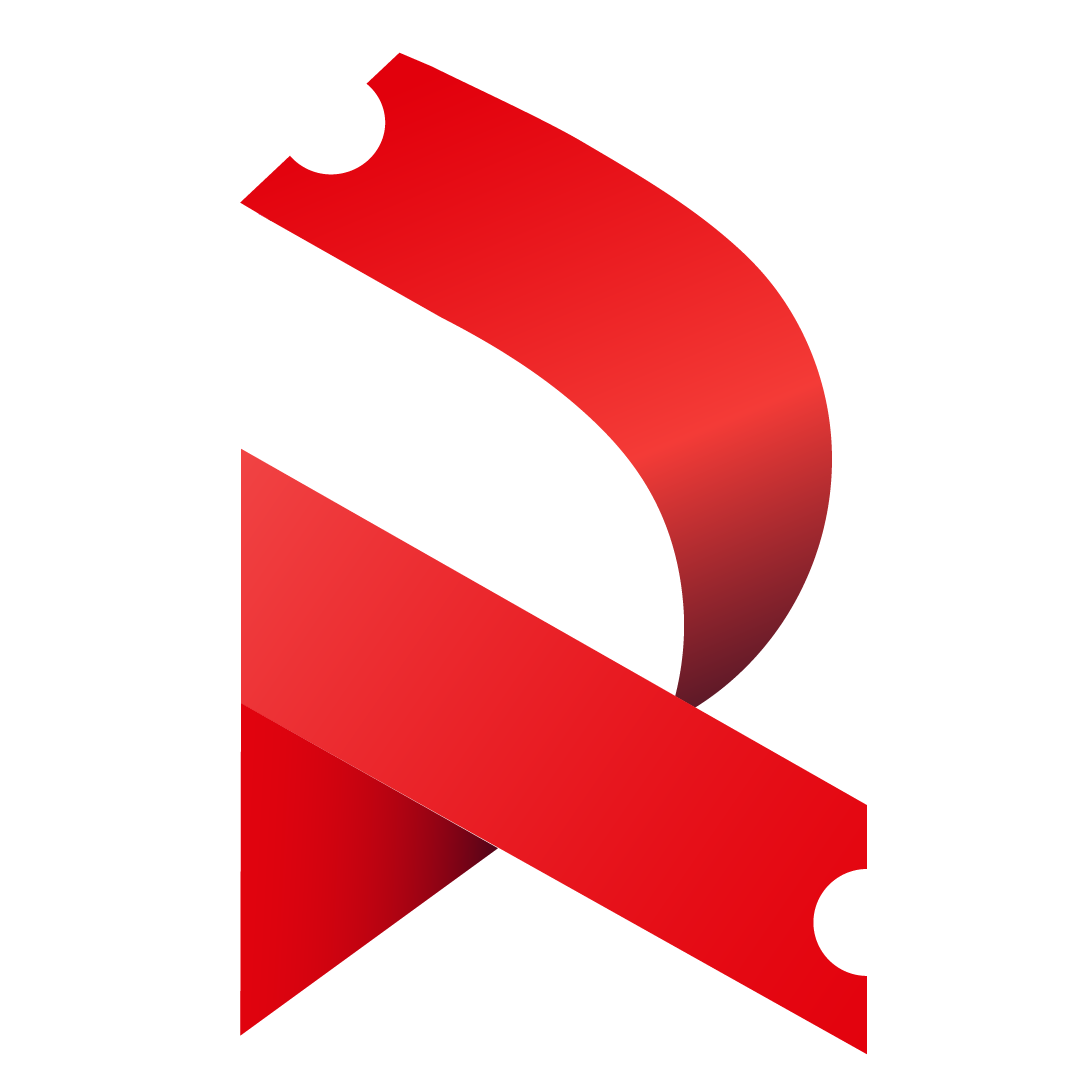
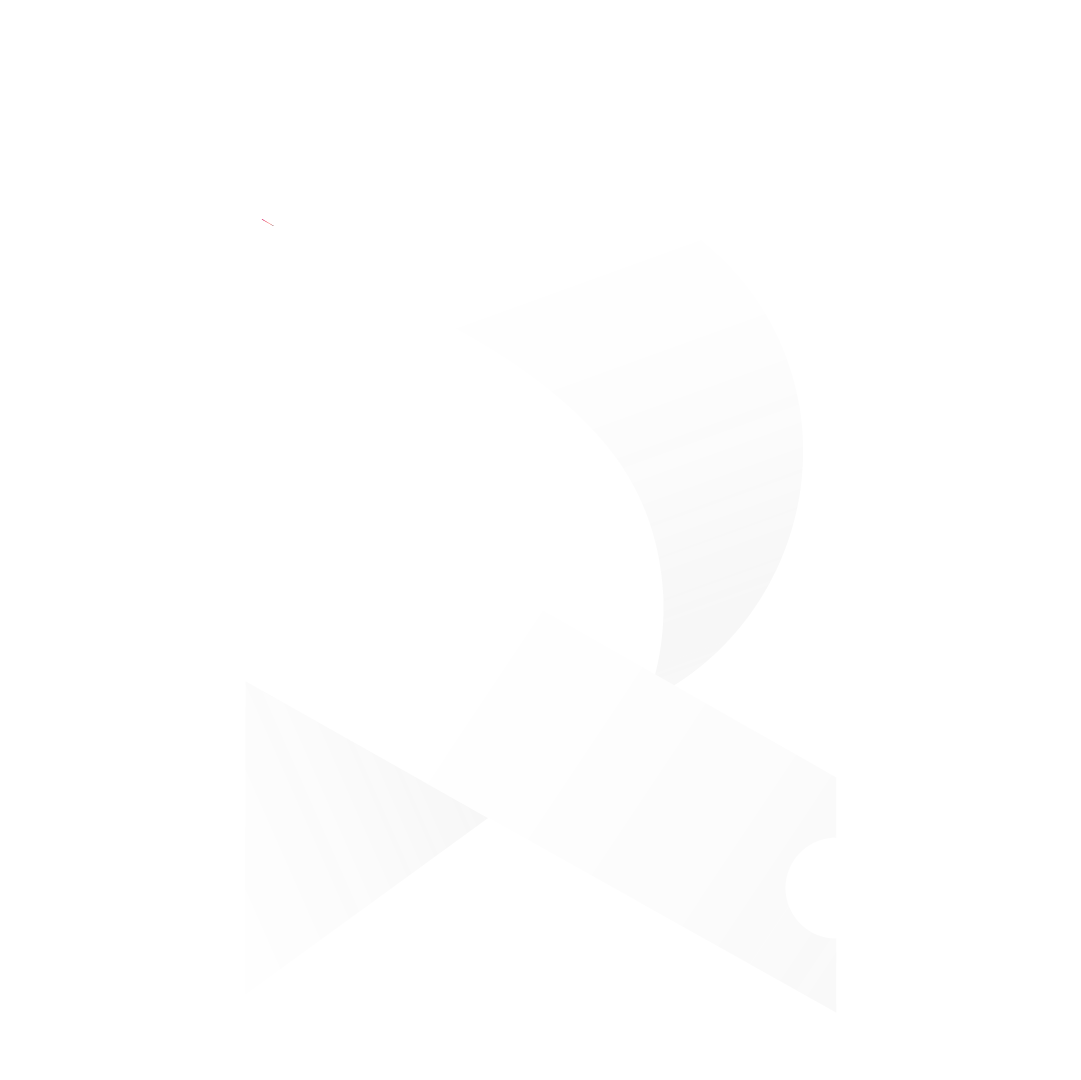
feat(merchant): voucher card §29 — Iconic v3 asset + clean right column
Replaces the §28 watermark source (Iconic Version 1) with the
brand-prepared Iconic Version 3 (white-on-dark variant) and
cleans up the right-side composition. Source SVG also copied
into docs/branding/Logos/ (gitignored — kept locally for
traceability of the chosen brand variant).

  1. Brand R uses Iconic Version 3 — and renders WITHOUT
     tintColor.

     Previous rounds bundled Iconic Version 1 (the colour
     red-gradient variant) and tinted it white. tintColor
     replaces every non-transparent pixel with one colour, so
     the brand designer's tonal gradient inside the ribbon
     was flattened — the §28 watermark looked like a single
     flat silhouette.

     Iconic Version 3 IS the white-on-dark brand variant. The
     ribbon-on-loop tonal depth is already painted in by the
     brand designer. Rendering the asset as plain <Image> at
     0.30 opacity (no tintColor) preserves that depth — the
     internal structure of the R is visible because it's in
     the asset, not because we faked it.

     Asset now bundled at apps/customer-app/assets/redeemo-r-
     mark.png (49KB, 1081×1080, RGBA). Replaces the previous
     v1 PNG.

  2. Right-side composition cleaned up.

     §28 right column had FIVE elements stacked: heart +
     decorative blob + R watermark + side notch + Redeem CTA.
     The on-device QA flagged the blob ↔ R collision as
     accidental-looking. The right column now has only three
     intentional zones:

       - heart top-right (16pt)
[…]

Changed region(s): [[0.2137, 0.0306, 0.8242, 0.9778]]

diff --git a/apps/customer-app/src/features/merchant/components/VoucherCard.tsx b/apps/customer-app/src/features/merchant/components/VoucherCard.tsx
@@ -15,51 +15,50 @@ import { useMotionScale } from '@/design-system/useMotionScale'
 import type { VoucherType } from '@/lib/api/redemption'
 import type { MerchantVoucher } from '@/lib/api/merchant'
 
-// Round 5 §28: corrects the §27 mistake of trying to manually
-// reconstruct the brand R as SVG paths — the result looked
-// disfigured and didn't read as the Redeemo logo. Reverted to
-// the official PNG asset (apps/customer-app/assets/redeemo-r-
-// mark.png, copied from the brand pack's "Iconic Version 1.png"
-// at 1081×1080), tinted white at low opacity for a single
-// faint flat watermark. No more fake internal structure.
+// Round 5 §29: official "Iconic Version 3" brand asset + clean
+// right-side composition. The asset bundled at
+// apps/customer-app/assets/redeemo-r-mark.png is now the
+// brand pack's white-on-dark variant (Iconic Version 3),
+// copied from docs/branding/Redeemo Branding Package/Logo
+// Files/PNG/Iconic Version 3.png. Source SVG also published
+// alongside for traceability:
+// docs/branding/Logos/Iconic Version 3.svg.
 //
-// Other refinements against the on-device QA:
+//   1. Brand R rendered WITHOUT tintColor. The Version 3 PNG
+//      is brand-prepared white/light-grey with the ribbon's
+//      tonal gradient baked in by the brand designer.
+//      Applying tintColor would flatten that gradient. Just
+//      <Image> + opacity 0.30 → the internal ribbon-on-loop
+//      depth comes through naturally because it's already in
+//      the asset.
 //
-//   1. Brand R uses the OFFICIAL asset. tintColor white +
-//      opacity 0.10 → recognisable Redeemo R silhouette,
-//      faint, embedded as background motif. No more manual
-//      reconstruction.
+//   2. Right-side composition cleaned up. §28 had FIVE things
+//      stacked on the right: heart + decorative blob + R +
+//      side notch + Redeem CTA. The on-device QA flagged the
+//      blob ↔ R collision as accidental-looking. Both
+//      decorative blobs moved to the LEFT side now so the
+//      right column has only three intentional zones:
+//        a) heart top-right (16pt)
+//        b) brand R right-CENTER (110×110, fully visible)
+//        c) Redeem CTA bottom-right
+//      Side notches stay (mid-height, coupon silhouette).
 //
-//   2. CTA returned to bottom-RIGHT (was bottom-left in §26).
-//      The bottom-right is the natural action position for
-//      "tap to redeem". The R is sized + placed so the
-//      bottom-right is empty when the CTA arrives — they
-//      don't overlap.
+//   3. Decorative blobs repositioned. §28 placed shapeA at
+//      top-RIGHT — directly clashing with the R area. Now:
+//        shapeA: top-LEFT corner, bleeds off (120pt @ 0.06)
+//        shapeB: bottom-LEFT corner, bleeds off (160pt @ 0.05)
+//      Both on the left so they support the hero/title column
+//      and never compete with the R or CTA on the right.
 //
-//   3. Layout — three vertical zones on the right column:
-//        a) heart at top-right (16pt)
-//        b) brand R at right-CENTER (100×100, fully visible)
-//        c) Redeem CTA at bottom-right
-//      Each zone has clean space; nothing covers the R.
-//
-//   4. Description font 11pt → 12pt, lineHeight 15 → 16.
-//      Body text on mobile should be ≥12pt; the on-device QA
-//      flagged the description as too small for normal users
-//      to read at a glance. Card grows ~3pt vertically — fine
-//      because readability wins over compactness.
+//   4. Description font 11pt → 12pt, lineHeight 15 → 16
+//      (kept from §28). Body text ≥12pt on mobile.
 //
 //   5. Hero stays stacked ("Save up to" eyebrow above £hero)
 //      from §27.
 //
-//   6. Type chip stays §26's dark-translucent style — strong
-//      contrast on every gradient (especially FREEBIE),
-//      clearly different surface from the white CTA pill.
+//   6. Type chip stays §26's dark-translucent style.
 //
-//   7. Background shape character — kept the §27 subtle white
-//      blobs (top-right + bottom-left, both at 0.05 opacity)
-//      so the card doesn't read as a flat block of colour.
-//
-// Behaviour preserved across §22 → §28:
+// Behaviour preserved across §22 → §29:
 //   • side cutouts at mid-height (coupon silhouette)
 //   • per-type 3-stop gradient with brand-red drop shadow
 //   • horizontal text only
@@ -204,12 +203,17 @@ export function VoucherCard({ voucher, isRedeemed, isFavourited, onPress, onTogg
         <View style={styles.shapeA} pointerEvents="none" />
         <View style={styles.shapeB} pointerEvents="none" />
 
-        {/* §28 brand R watermark — OFFICIAL PNG asset, tinted
-            white at 0.10 opacity. Single faint flat silhouette,
-            recognisable as the Redeemo R. No more manual SVG
-            reconstruction. Sized + positioned at right-center
+        {/* §29 brand R watermark — OFFICIAL "Iconic Version 3"
+            PNG. The asset is brand-prepared white-on-dark with
+            the ribbon's tonal gradient already baked in by the
+            brand designer, so we render it WITHOUT tintColor:
+            applying tintColor would flatten that gradient and
+            kill the internal ribbon-on-loop depth. Just Image
+            + opacity 0.30 → the brand mark reads as embedded
+            with its native depth. Sized 110×110 at right-CENTER
             so the heart sits cleanly above and the bottom-right
-            CTA sits cleanly below. */}
+            CTA sits cleanly below — three intentional zones on
+            the right column, no decorative shapes nearby. */}
         <View style={styles.watermarkWrap} pointerEvents="none">
           <Image
             source={require('../../../../assets/redeemo-r-mark.png')}
@@ -316,15 +320,20 @@ const styles = StyleSheet.create({
     opacity: 0.6,
   },
 
-  // Subtle white background blobs — premium gradient texture.
+  // §29: BOTH decorative blobs moved to the LEFT side. §28
+  // had shapeA at top-RIGHT, which clashed with the R
+  // watermark and made the right side feel crowded /
+  // accidental. Now both shapes support the hero/title column
+  // on the left and stay clear of the right-side composition
+  // (heart + R + CTA).
   shapeA: {
     position: 'absolute',
-    right: -30,
+    left: -30,
     top: -30,
     width: 120,
     height: 120,
     borderRadius: 60,
-    backgroundColor: 'rgba(255,255,255,0.05)',
+    backgroundColor: 'rgba(255,255,255,0.06)',
   },
   shapeB: {
     position: 'absolute',
@@ -336,21 +345,25 @@ const styles = StyleSheet.create({
     backgroundColor: 'rgba(255,255,255,0.05)',
   },
 
-  // §28 brand watermark — OFFICIAL PNG asset, single flat
-  // silhouette tinted white. 100×100 sits in the right-center
-  // column. Heart above (top:14-30), CTA below (bottom row).
+  // §29 brand watermark — OFFICIAL "Iconic Version 3" PNG
+  // (brand-prepared white-on-dark with the ribbon's tonal
+  // gradient baked in). Rendered WITHOUT tintColor so the
+  // internal depth survives. 110×110 at right-CENTER.
+  // Wrapper uses `position: absolute` so the R sits
+  // independently of content flow — content (chip, hero,
+  // title, description) flows over it on the LEFT, with
+  // text reading cleanly through the faint silhouette.
   watermarkWrap: {
     position: 'absolute',
     right: 14,
-    top: 36,
-    width: 100,
-    height: 100,
+    top: 30,
+    width: 110,
+    height: 110,
   },
   watermark: {
     width: '100%',
     height: '100%',
-    tintColor: '#FFFFFF',
-    opacity: 0.10,
+    opacity: 0.30,
   },
 
   topHighlight: {
